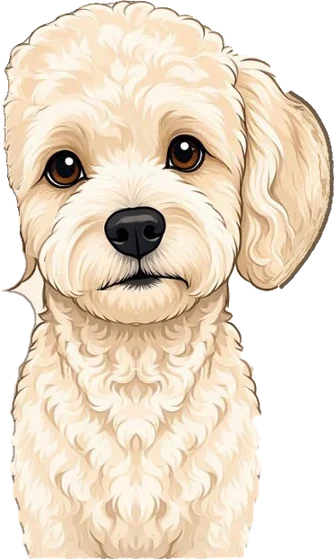
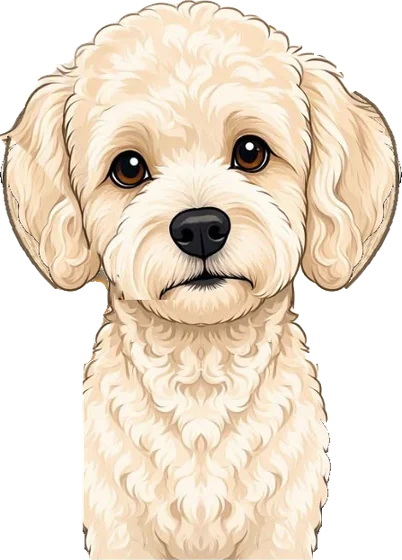
Luna: restore her left ear; softer fill behind every dog's ears
Luna's left ear was lost in the cutout (part of it sat behind Leo's head in the reference). Both
ears are now complete: the hidden part of each is rebuilt from her own fur with matching line art.
Behind each dog's ears the head now shows soft fur instead of a flat strip when an ear swings.

Claude-Session: https://claude.ai/code/session_01R1BJHJXn9Tzcdoa52wFdot

diff --git a/src/components/art/dogPortraits.ts b/src/components/art/dogPortraits.ts
@@ -51,11 +51,12 @@ export const PORTRAITS: Record<PortraitDog, Portrait> = {
     neck: [0.53, 0.72], neckW: 0.52, chest: [0.53, 0.84], paw: [0.53, 0.86],
   },
   luna: {
-    src: lunaUrl, aspect: 334 / 560, height: 108, fur: '#f3e4c8', furDark: '#c9a874',
-    eyes: [[0.2, 0.3], [0.58, 0.29]], nose: [0.4, 0.42], mouth: [0.4, 0.52],
-    hat: [0.4, 0.04], hatW: 0.62, ear: [0.82, 0.12],
-    neck: [0.42, 0.63], neckW: 0.62, chest: [0.42, 0.75], paw: [0.42, 0.8],
+    src: lunaUrl, aspect: 402 / 560, height: 106, fur: '#f3e4c8', furDark: '#c9a874',
+    eyes: [[0.32, 0.29], [0.62, 0.27]], nose: [0.495, 0.41], mouth: [0.5, 0.51],
+    hat: [0.48, 0.03], hatW: 0.5, ear: [0.86, 0.12],
+    neck: [0.5, 0.63], neckW: 0.5, chest: [0.5, 0.75], paw: [0.5, 0.8],
   },
+
 }
 
 export const GROUND_Y = 114

diff --git a/src/index.css b/src/index.css
@@ -479,8 +479,8 @@ ruby.ruby-jp rt { font-size: 0.48em; font-weight: 600; letter-spacing: 0; opacit
 
 /* sad: ears and head droop, eyes half closed */
 .rg-sad .rg-head { animation: none; transform: rotate(5deg) translateY(2px); }
-.rg-sad .rg-earL { animation: none; transform: rotate(11deg); }
-.rg-sad .rg-earR { animation: none; transform: rotate(-11deg); }
+.rg-sad .rg-earL { animation: none; transform: rotate(7deg); }
+.rg-sad .rg-earR { animation: none; transform: rotate(-7deg); }
 .rg-sad .rg-lid { animation: none; transform: scaleY(0.5); }
 .rg-sad .rg-body { animation-duration: 5s; }
 .rg-sad .rg-earL, .rg-sad .rg-earR, .rg-sad .rg-lid { transition: transform 0.45s ease-out; }
